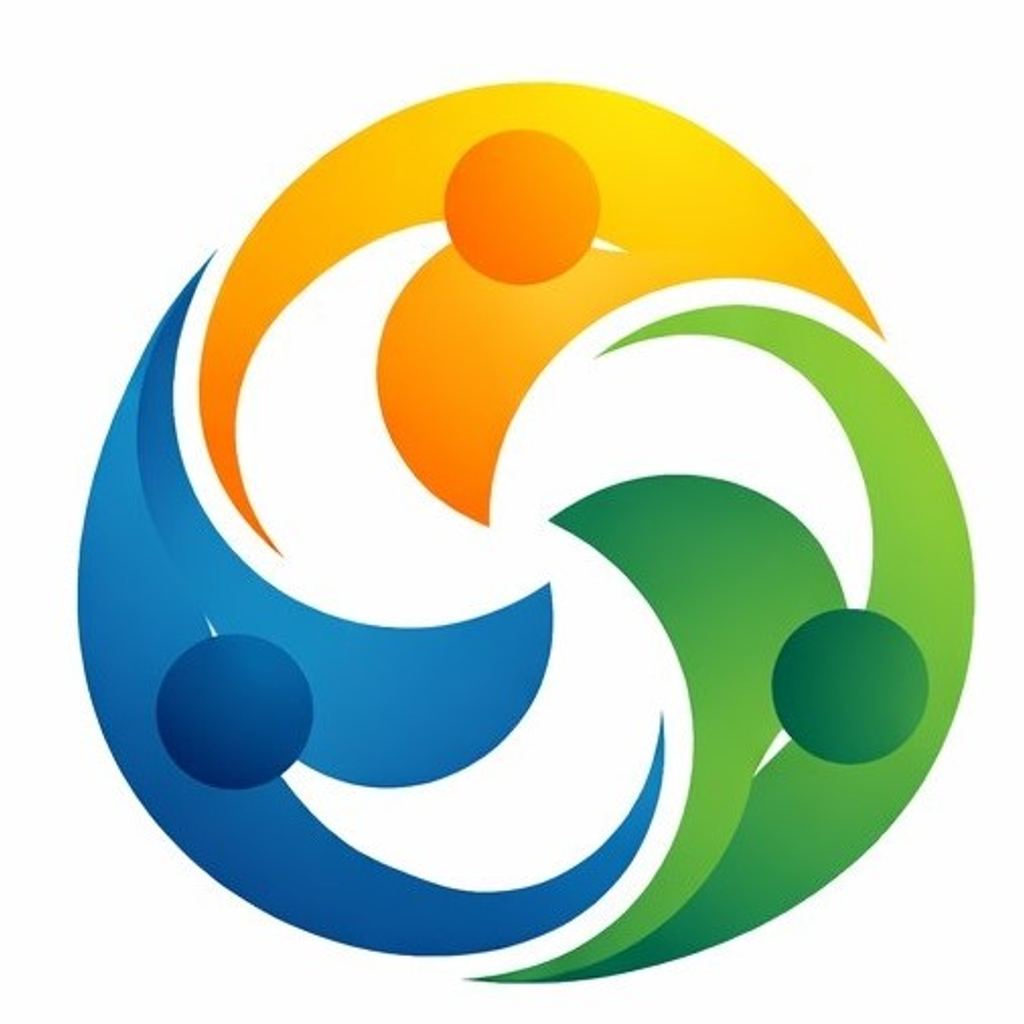
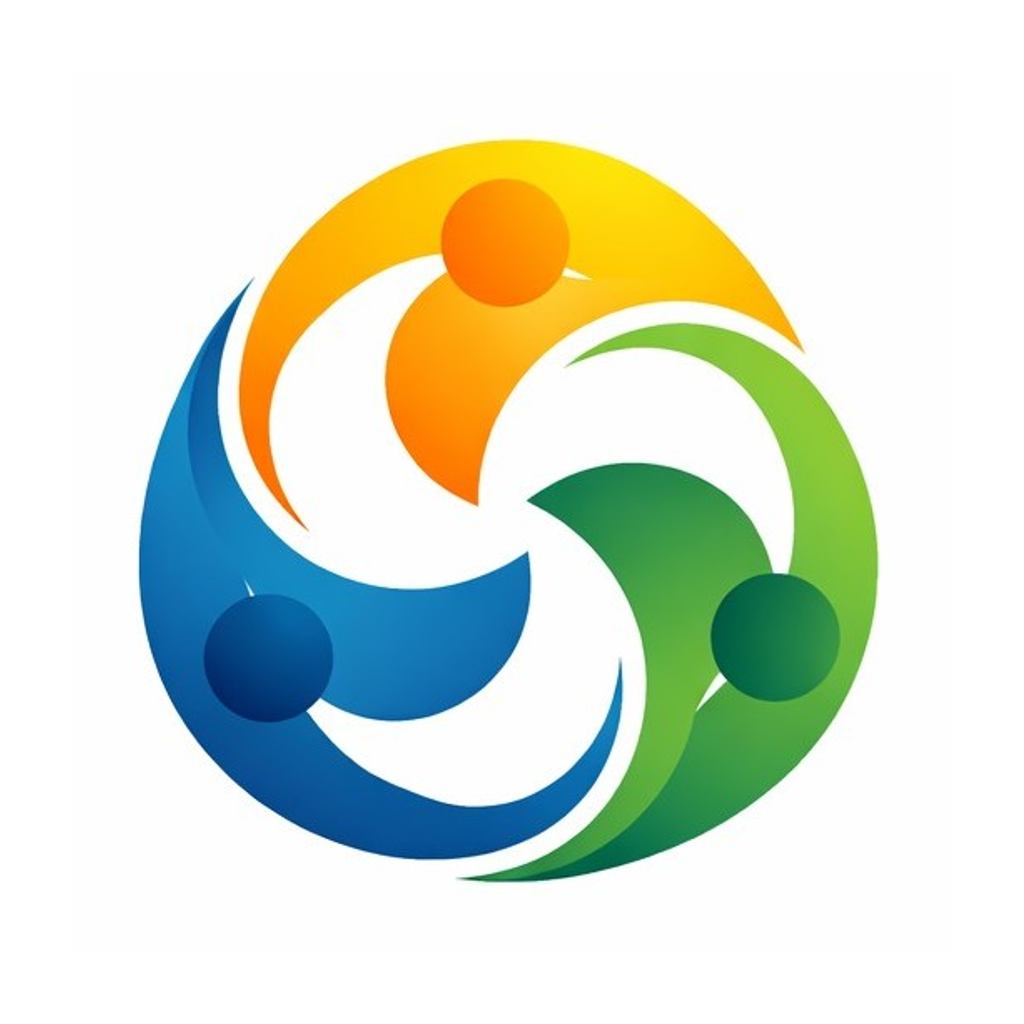
update repo

diff --git a/mobile-app/scripts/fix-assets.js b/mobile-app/scripts/fix-assets.js
@@ -1,17 +1,19 @@
 /**
- * Regenerate app store assets from a single source image.
+ * Regenerate app store assets from source images.
  *
- * Produces:
- *   - assets/icon.png           1024x1024 opaque iOS/store icon
- *   - assets/adaptive-icon.png  1024x1024 foreground with ~66% safe zone, transparent bg
- *   - assets/splash.png         1242x2436 centered logo on the app's primary color
- *   - assets/favicon.png        48x48 web favicon
+ * Sources (drop them in assets/ and re-run):
+ *   - assets/logomark.{png,jpg,jpeg}  (preferred) — square mark only,
+ *                                      used for icon/adaptive-icon/favicon.
+ *   - assets/source.{png,jpg,jpeg}    (preferred) — full logo (mark + wordmark),
+ *                                      used for splash. Falls back to icon
+ *                                      sources if no logomark is provided.
  *
- * The background color for splash & icon matches app.json's primaryColor.
- * Source priority:
- *   1. assets/source.png / source.jpg (preferred, commit a clean logo here)
- *   2. ../frontend/public/logo-icon.jpeg
- *   3. minimal transparent placeholder (so builds don't break in CI)
+ * Outputs:
+ *   assets/icon.png           1024×1024 opaque, brand bg, logomark filling ~80%.
+ *   assets/adaptive-icon.png  1024×1024 transparent bg, logomark in 66% safe zone
+ *                             (Android Material guidance).
+ *   assets/splash.png         1242×2436 full logo on brand bg.
+ *   assets/favicon.png        48×48 brand bg with logomark.
  */
 const sharp = require('sharp');
 const path = require('path');
@@ -19,16 +21,22 @@ const fs = require('fs');
 
 const projectRoot = path.join(__dirname, '..');
 const outDir = path.join(projectRoot, 'assets');
-const BG = '#4F46E5';
+// Splash + Android adaptive-icon background use the brand color.
+// Store / iOS icon uses a white tile so the multicolor mark stays legible
+// at small sizes (matches the "colored-logo-on-white-tile" pattern used by
+// most Google and Apple-style apps).
+const BRAND_BG = '#4F46E5';
+const ICON_BG = '#FFFFFF';
 
-function pickSource() {
-  const candidates = [
-    path.join(outDir, 'source.png'),
-    path.join(outDir, 'source.jpg'),
-    path.join(outDir, 'source.jpeg'),
-    path.join(projectRoot, '..', 'frontend', 'public', 'logo-icon.jpeg'),
-  ];
-  return candidates.find((p) => fs.existsSync(p));
+const ICON_FILES = ['logomark.png', 'logomark.jpg', 'logomark.jpeg'];
+const SOURCE_FILES = ['source.png', 'source.jpg', 'source.jpeg'];
+
+function pick(names) {
+  for (const n of names) {
+    const p = path.join(outDir, n);
+    if (fs.existsSync(p)) return p;
+  }
+  return null;
 }
 
 async function writePlaceholders() {
@@ -42,97 +50,92 @@ async function writePlaceholders() {
   console.log('Wrote minimal placeholders to assets/');
 }
 
+/**
+ * If a dedicated logomark file exists, use it as-is. Otherwise crop a
+ * top-anchored square out of `source` so we exclude any wordmark / tagline
+ * sitting below the symbol.
+ */
+async function deriveLogomarkBuffer(logomarkPath, sourcePath) {
+  if (logomarkPath) {
+    return fs.readFileSync(logomarkPath);
+  }
+  const meta = await sharp(sourcePath).metadata();
+  const w = meta.width || 1;
+  const h = meta.height || 1;
+  // Heuristic: assume the symbol occupies ~70% of the source's height,
+  // centered horizontally, anchored at the top. Adjust if needed.
+  const side = Math.min(w, Math.floor(h * 0.7));
+  return sharp(sourcePath)
+    .extract({
+      left: Math.max(0, Math.floor((w - side) / 2)),
+      top: 0,
+      width: side,
+      height: side,
+    })
+    .png()
+    .toBuffer();
+}
+
+async function compose({ width, height, bg, inner, innerSize }) {
+  return sharp({
+    create: { width, height, channels: 4, background: bg },
+  }).composite([
+    {
+      input: await sharp(inner)
+        .resize(innerSize, innerSize, {
+          fit: 'contain',
+          background: { r: 0, g: 0, b: 0, alpha: 0 },
+        })
+        .png()
+        .toBuffer(),
+      gravity: 'center',
+    },
+  ]);
+}
+
 async function run() {
-  const src = pickSource();
-  if (!src) {
-    console.warn('No source image found; writing placeholders.');
+  const logomark = pick(ICON_FILES);
+  const source = pick(SOURCE_FILES);
+
+  if (!logomark && !source) {
+    console.warn('No logomark.* or source.* found in assets/; writing placeholders.');
     await writePlaceholders();
     return;
   }
-  console.log(`Using source: ${path.relative(projectRoot, src)}`);
 
-  // iOS/store icon: 1024x1024 opaque, fill background with the brand color.
-  await sharp({
-    create: {
-      width: 1024,
-      height: 1024,
-      channels: 4,
-      background: BG,
-    },
-  })
-    .composite([
-      {
-        input: await sharp(src)
-          .resize(720, 720, { fit: 'contain', background: { r: 0, g: 0, b: 0, alpha: 0 } })
-          .png()
-          .toBuffer(),
-        gravity: 'center',
-      },
-    ])
+  console.log(`Logomark: ${logomark ? path.basename(logomark) : '(derived from ' + path.basename(source) + ')'}`);
+  console.log(`Splash source: ${path.basename(source || logomark)}`);
+
+  const logomarkBuf = await deriveLogomarkBuffer(logomark, source || logomark);
+  const splashSource = source || logomark;
+
+  await (
+    await compose({ width: 1024, height: 1024, bg: ICON_BG, inner: logomarkBuf, innerSize: 880 })
+  )
     .png()
     .toFile(path.join(outDir, 'icon.png'));
 
-  // Android adaptive icon foreground: 1024x1024, transparent background, logo
-  // confined to the inner ~66% safe zone (Google Play guidance).
-  await sharp({
-    create: {
+  await (
+    await compose({
       width: 1024,
       height: 1024,
-      channels: 4,
-      background: { r: 0, g: 0, b: 0, alpha: 0 },
-    },
-  })
-    .composite([
-      {
-        input: await sharp(src)
-          .resize(660, 660, { fit: 'contain', background: { r: 0, g: 0, b: 0, alpha: 0 } })
-          .png()
-          .toBuffer(),
-        gravity: 'center',
-      },
-    ])
+      bg: { r: 0, g: 0, b: 0, alpha: 0 },
+      inner: logomarkBuf,
+      innerSize: 660,
+    })
+  )
     .png()
     .toFile(path.join(outDir, 'adaptive-icon.png'));
 
-  // Splash: centered logo on solid primary color (1242x2436 covers iPhone + Android).
-  await sharp({
-    create: {
-      width: 1242,
-      height: 2436,
-      channels: 4,
-      background: BG,
-    },
-  })
-    .composite([
-      {
-        input: await sharp(src)
-          .resize(512, 512, { fit: 'contain', background: { r: 0, g: 0, b: 0, alpha: 0 } })
-          .png()
-          .toBuffer(),
-        gravity: 'center',
-      },
-    ])
+  await (
+    await compose({ width: 1242, height: 2436, bg: ICON_BG, inner: splashSource, innerSize: 820 })
+  )
     .png()
     .toFile(path.join(outDir, 'splash.png'));
 
-  // Favicon: 48x48 opaque.
-  await sharp({
-    create: {
-      width: 48,
-      height: 48,
-      channels: 4,
-      background: BG,
-    },
-  })
-    .composite([
-      {
-        input: await sharp(src)
-          .resize(34, 34, { fit: 'contain', background: { r: 0, g: 0, b: 0, alpha: 0 } })
-          .png()
-          .toBuffer(),
-        gravity: 'center',
-      },
-    ])
+  await (
+    await compose({ width: 48, height: 48, bg: ICON_BG, inner: logomarkBuf, innerSize: 44 })
+  )
     .png()
     .toFile(path.join(outDir, 'favicon.png'));
 

diff --git a/mobile-app/docs/RELEASE_CHECKLIST.md b/mobile-app/docs/RELEASE_CHECKLIST.md
@@ -27,10 +27,14 @@ Work top-to-bottom. Nothing ships until every box is ticked.
 ## 2. Assets
 
 - [ ] `npm run assets:generate` executed; inspect:
-  - `assets/icon.png` — 1024×1024, opaque, no alpha in final iOS build.
-  - `assets/adaptive-icon.png` — foreground only, 66% safe zone, transparent bg.
-  - `assets/splash.png` — logo centered on `#4F46E5`.
-  - `assets/favicon.png` — 48×48.
+  - `assets/icon.png` — 1024×1024, opaque white, colorful logomark ~85% of tile.
+  - `assets/adaptive-icon.png` — foreground only, logomark in 66% safe zone,
+    transparent bg (Android composites it over `adaptiveIcon.backgroundColor`
+    which is white).
+  - `assets/splash.png` — full logo centered on white.
+  - `assets/favicon.png` — 48×48, white tile with logomark.
+- [ ] Source logo committed at `assets/source.jpeg` (full brand lockup) so any
+      contributor can rebuild the asset set deterministically.
 
 ## 3. Device sanity (side-loaded preview build)
 
@@ -79,3 +83,99 @@ Work top-to-bottom. Nothing ships until every box is ticked.
 - [ ] iOS submit: `npm run submit:ios` (TestFlight internal review first).
 - [ ] Promote to production after 24 h in internal testing with no
       crash-free dip.
+
+---
+
+## Appendix A. First Google Play release — runbook
+
+Use this when you are filing **the first** Play Store submission for
+GrandHR. Follow top-to-bottom. All commands run from `mobile-app/`.
+
+### A.1 One-time Play Console setup
+
+1. Create the app in Google Play Console → **Create app**. Package
+   name **must be** `com.grandhr.mobile` (matches `app.json`).
+2. Pick the default language, confirm it is a free app, confirm it
+   targets adults and complies with Play policies.
+3. Play Console → **Setup → App access**: provide the review
+   credentials from `docs/IOS_REVIEW_NOTES.md` (same demo account
+   works for Google reviewers).
+4. Play Console → **Setup → App content**: complete every card
+   (ads, content rating, target audience, data safety, account
+   deletion URL → `https://grandhr.in/account-deletion`, news,
+   government, privacy policy URL → `https://grandhr.in/privacy-policy`).
+5. Play Console → **Release → Setup → App signing**: let Google
+   generate the upload key (Play App Signing). EAS will hold the
+   upload key it creates on our side; Play holds the final signing
+   key. Never commit either.
+
+### A.2 EAS build credentials
+
+1. `npx eas login` and confirm `eas whoami` shows `shahworks`.
+2. `npx eas credentials` → Android → production →
+   **Set up a new Keystore** (let EAS generate it, stored on EAS
+   servers — never downloaded). This is the upload key.
+3. In Play Console → **Setup → API access**, create a service
+   account with `Release manager` role, download the JSON key, and
+   save it as `mobile-app/google-service-account.json`
+   (git-ignored). This is required by `eas submit`.
+
+### A.3 Cut the production AAB
+
+```
+npm run assets:generate
+npx tsc --noEmit
+npx expo-doctor
+npm run build:production:android
+```
+
+When EAS prompts, accept automatic versionCode increment. The build
+runs on Expo servers; the AAB link will appear in the terminal and
+at https://expo.dev/accounts/shahworks/projects/grandhr-mobile/builds.
+
+### A.4 Internal testing track first
+
+1. Download the AAB from the build page, or let EAS Submit upload
+   it directly: `npm run submit:android:internal`.
+2. In Play Console → **Testing → Internal testing**, add your own
+   Google account to the tester list, open the provided opt-in URL
+   on the device, install from Play Store, and run through
+   Section 3 (Device sanity) of this checklist on the Play build.
+3. Keep the build on internal testing for at least 24 hours.
+
+### A.5 Promote to production
+
+1. In Play Console → **Testing → Internal testing → Promote release
+   → Production**. Reuse the same AAB (no rebuild required).
+2. Fill the release notes. Template:
+
+   ```
+   Initial release of GrandHR — HR management for small and
+   mid-sized businesses. Time tracking, attendance, leave,
+   payslips, and announcements.
+   ```
+
+3. Start rollout at 20% and monitor crash-free sessions. Ramp to
+   100% once Android Vitals shows no regressions.
+
+### A.6 Before clicking "Send for review"
+
+- [ ] Data safety answers match `docs/DATA_SAFETY.md` exactly.
+- [ ] Store listing text + screenshots match `docs/STORE_LISTING.md`.
+- [ ] Feature graphic (1024×500 PNG/JPEG) uploaded.
+- [ ] Privacy policy URL returns 200 and contains the full text
+      from `docs/PRIVACY_POLICY.md`.
+- [ ] Account deletion URL returns 200 and describes the in-app +
+      web deletion flow from `docs/ACCOUNT_DELETION.md`.
+- [ ] No leftover `console.log`s in source that expose API
+      payloads or tokens (grep before building).
+- [ ] `versionCode` in the build is greater than any previously
+      uploaded AAB.
+
+### A.7 After approval
+
+- [ ] Tag the commit: `git tag v1.0.0 && git push --tags`.
+- [ ] Enable Sentry (set `EXPO_PUBLIC_SENTRY_DSN` as an EAS secret
+      and re-build) to capture post-launch crashes.
+- [ ] Schedule the iOS submission as a follow-up (see
+      `docs/IOS_REVIEW_NOTES.md`).